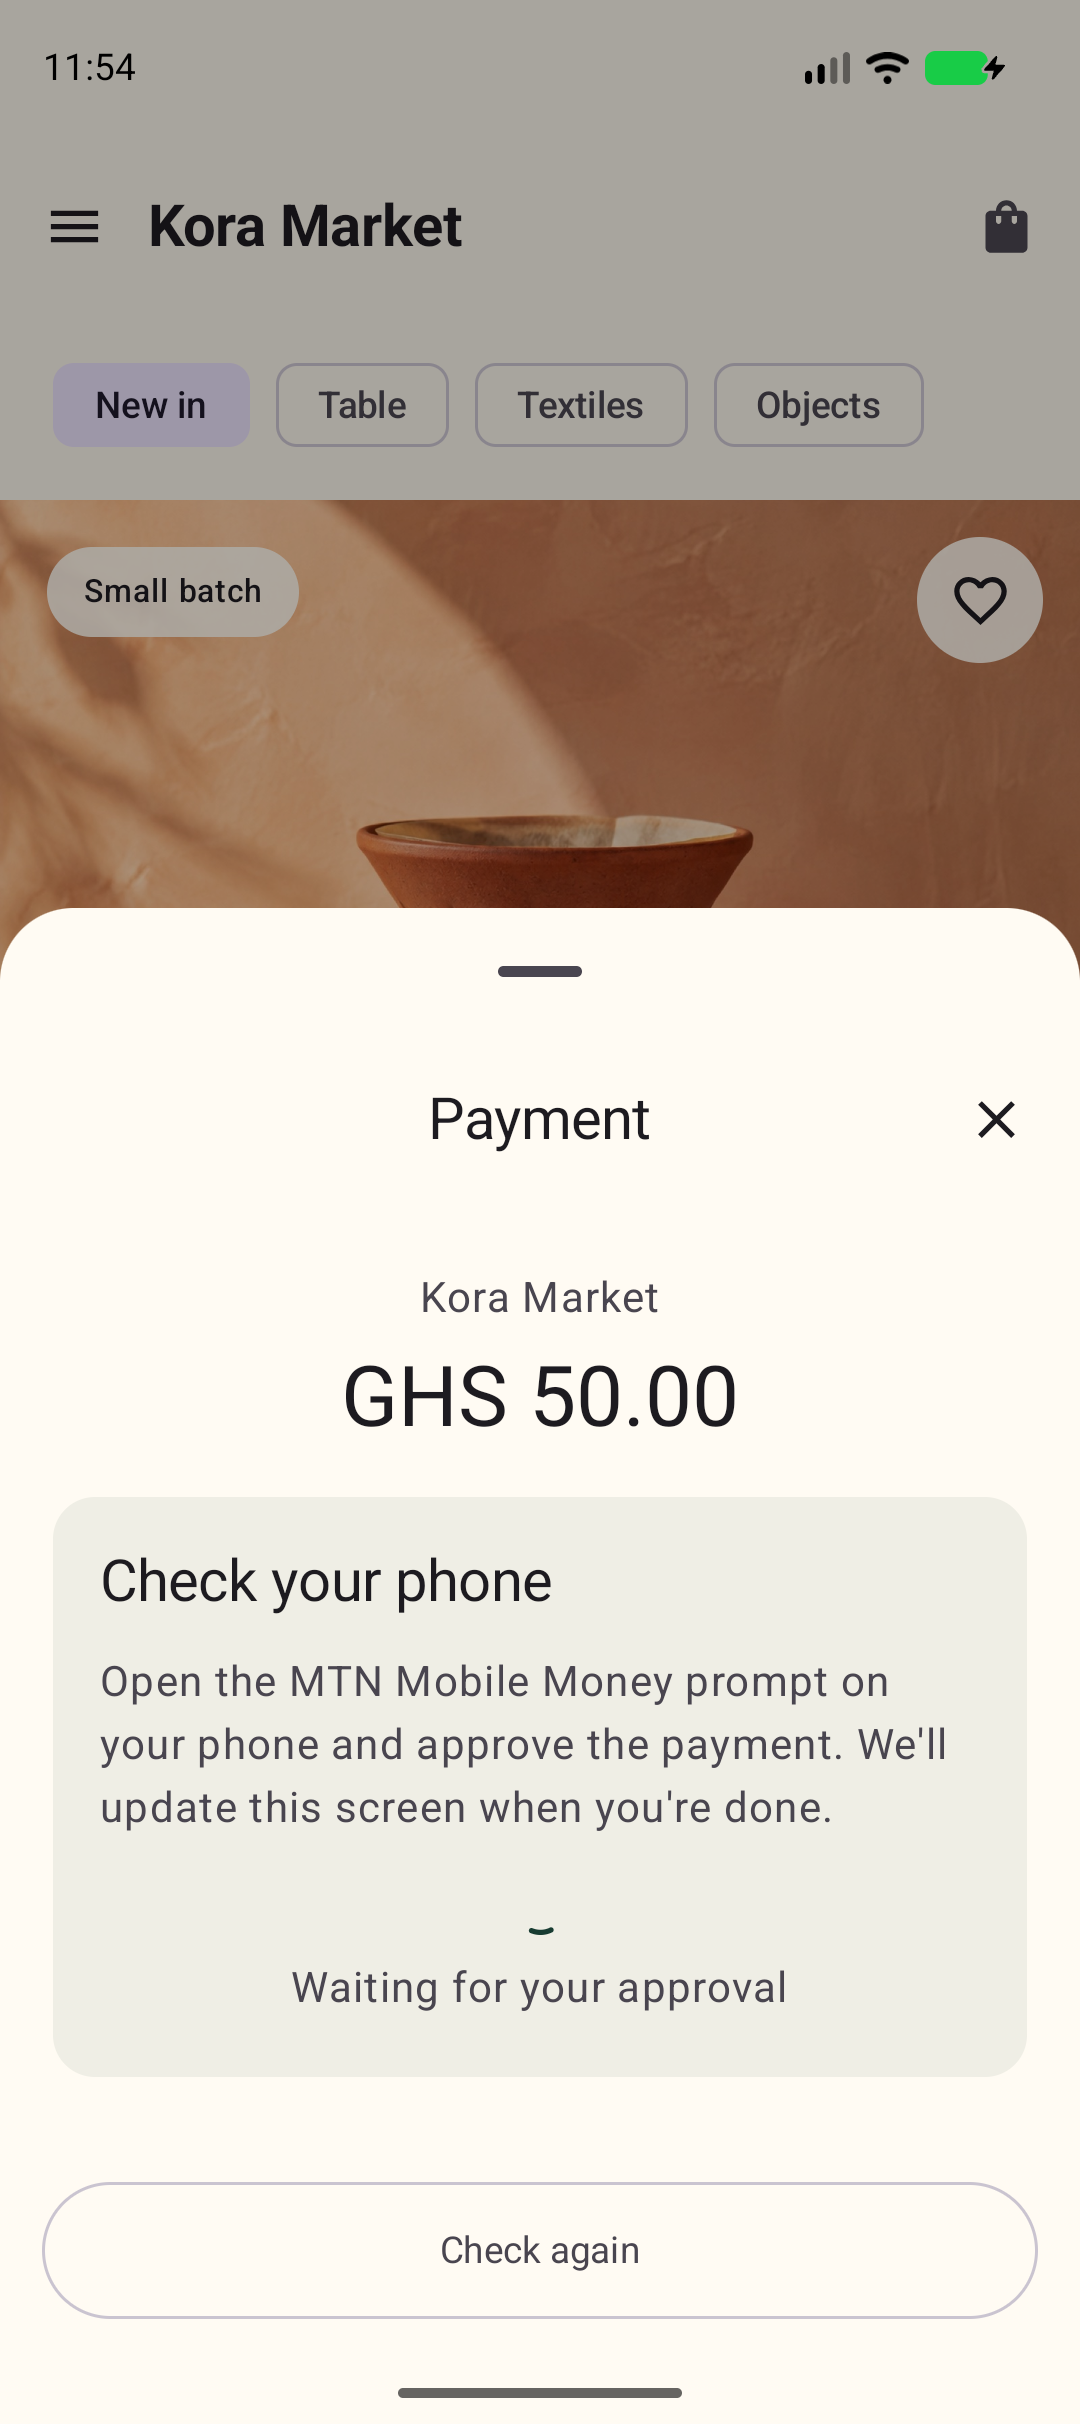
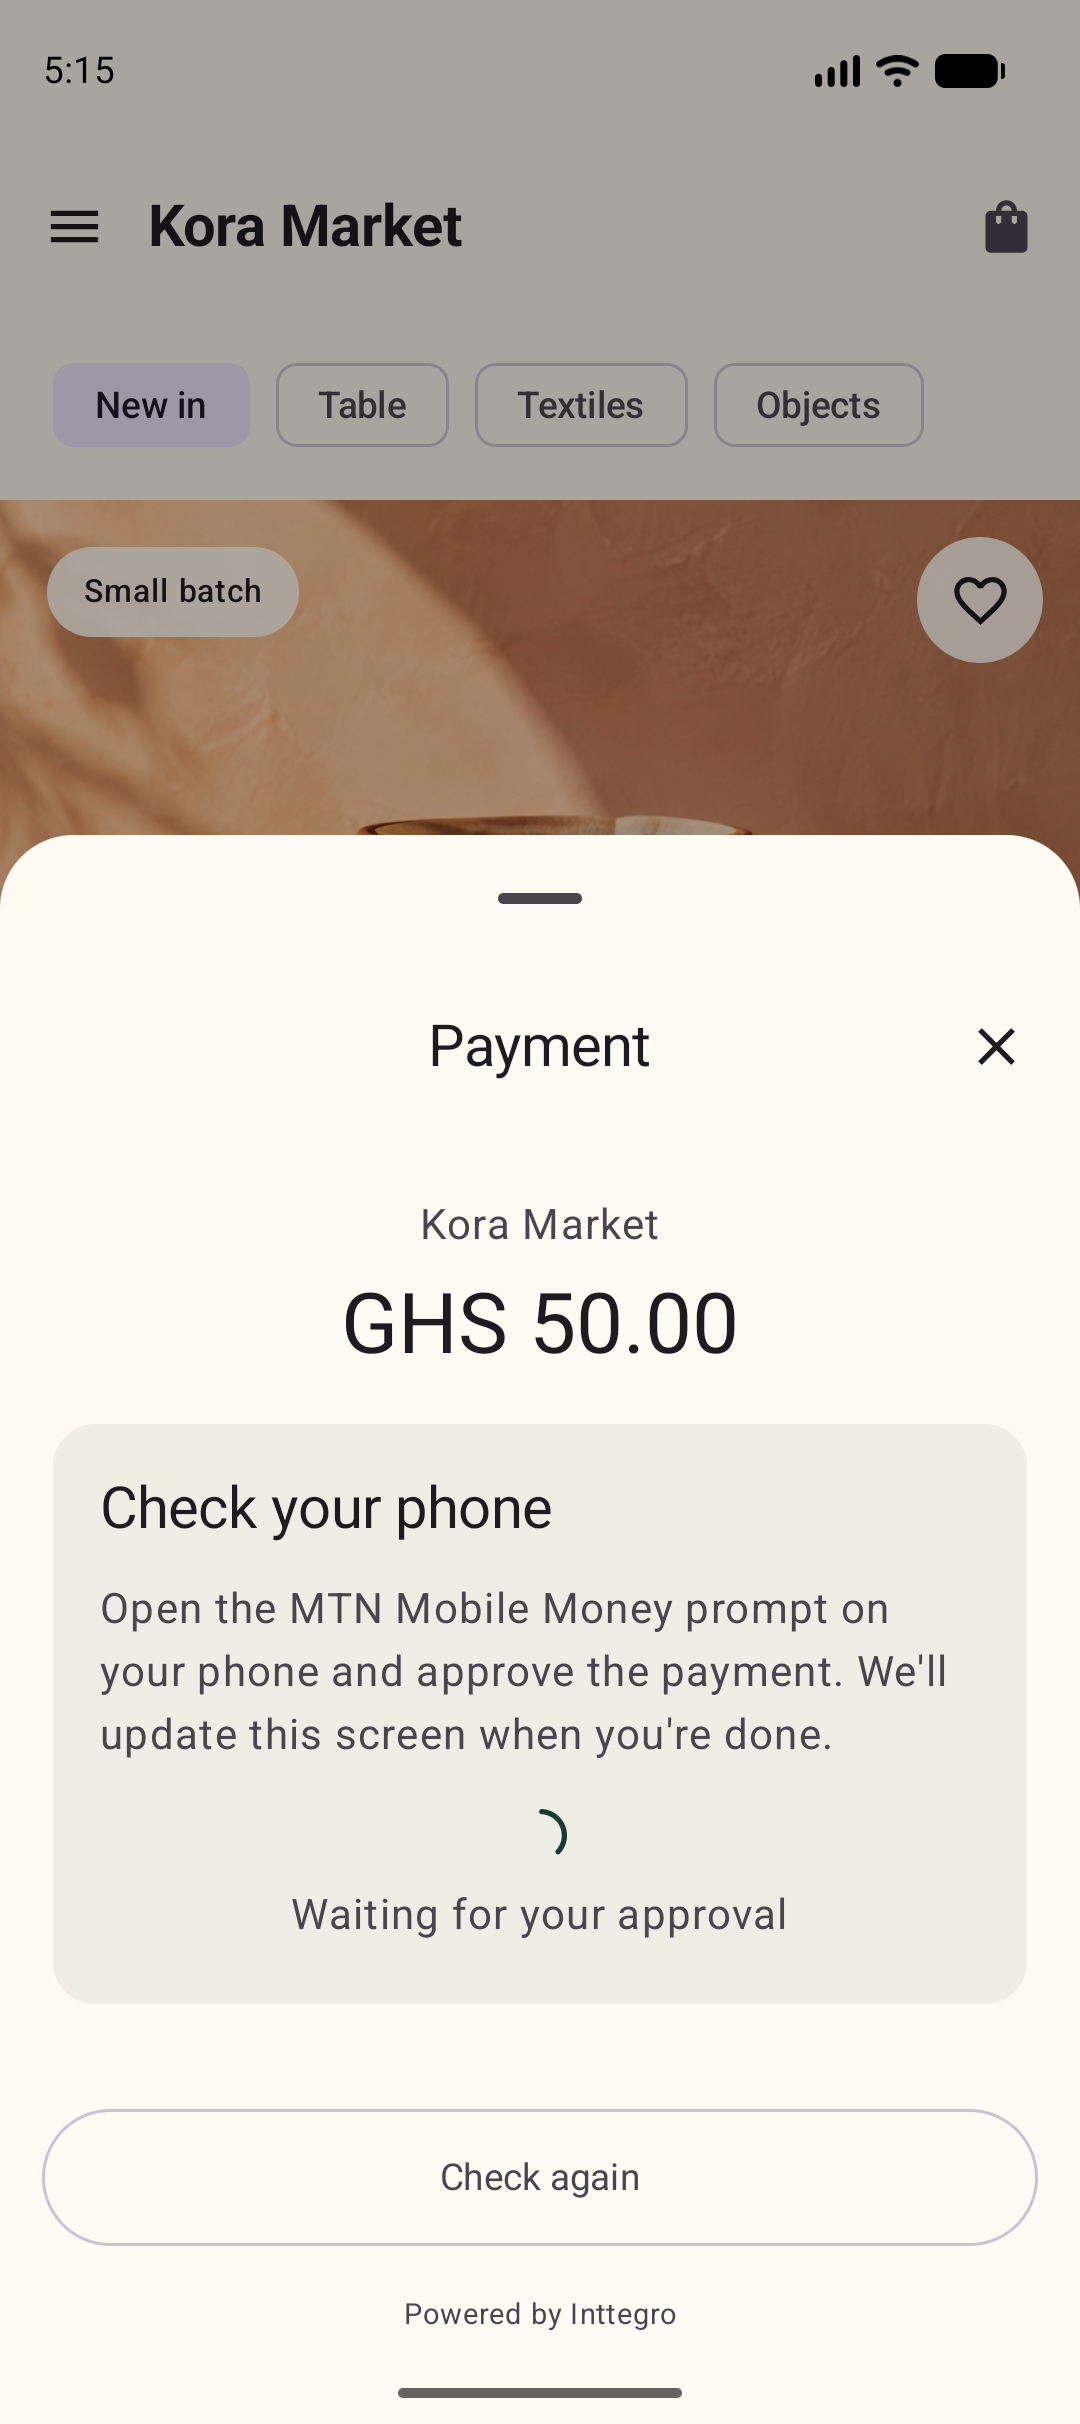
demos: capture optional mobile checkout states

diff --git a/ios-swiftui/InttegroSwiftUIDemo/CheckoutView.swift b/ios-swiftui/InttegroSwiftUIDemo/CheckoutView.swift
@@ -37,12 +37,19 @@ struct CheckoutView: View {
 
     init() {
 #if DEBUG
-        if ProcessInfo.processInfo.environment["INTTEGRO_STUDIO_SCREENSHOTS"] == "1" {
+        let screenshotMode = ProcessInfo.processInfo.environment["INTTEGRO_STUDIO_SCREENSHOTS"]
+        if screenshotMode == "1" || screenshotMode == "features" {
             _configuration = State(
                 initialValue: try? PaymentSheetConfiguration(
                     orderID: "or_studio_screenshot",
                     returnURL: URL(string: "inttegro-demo://inttegro-return"),
-                    appearance: .init(primaryColor: "#173D33", cornerRadius: 30)
+                    appearance: .init(primaryColor: "#173D33", cornerRadius: 30),
+                    features: .init(
+                        showLineItems: screenshotMode == "features",
+                        showInvoiceDownload: screenshotMode == "features",
+                        showReceiptDownload: screenshotMode == "features",
+                        allowPaymentMethodChange: screenshotMode != "features"
+                    )
                 )
             )
             _isPaymentSheetPresented = State(initialValue: true)
@@ -286,7 +293,8 @@ struct CheckoutView: View {
 
     private var isStudioScreenshotMode: Bool {
 #if DEBUG
-        ProcessInfo.processInfo.environment["INTTEGRO_STUDIO_SCREENSHOTS"] == "1"
+        let mode = ProcessInfo.processInfo.environment["INTTEGRO_STUDIO_SCREENSHOTS"]
+        return mode == "1" || mode == "features"
 #else
         false
 #endif
@@ -383,7 +391,19 @@ private struct StudioScreenshotPaymentSheetAdapter: PaymentSheetAdapter {
                     detail: "MTN MoMo, Telecel Cash, or AirtelTigo Money"
                 ),
             ],
-            expiresAt: Date().addingTimeInterval(15 * 60)
+            expiresAt: Date().addingTimeInterval(15 * 60),
+            lineItems: [
+                .init(
+                    id: "line_dawn_brew_set",
+                    name: "Dawn Brew Set",
+                    quantity: 1,
+                    total: .init(value: 5_000, currency: "GHS")
+                ),
+            ],
+            documents: .init(
+                invoiceURL: URL(string: "https://example.com/invoice.pdf"),
+                receiptURL: URL(string: "https://example.com/receipt.pdf")
+            )
         )
     }
 

diff --git a/android-compose/app/src/main/java/com/inttegro/demo/compose/MainActivity.kt b/android-compose/app/src/main/java/com/inttegro/demo/compose/MainActivity.kt
@@ -337,6 +337,12 @@ private fun KoraMarketScreen() {
                 // it is not evidence that payment succeeded.
                 orderId = activeOrderId,
                 returnUrl = "inttegro-demo://payment-return",
+                features = PaymentSheetConfiguration.Features(
+                    showLineItems = BuildConfig.INTTEGRO_SCREENSHOT_FEATURES,
+                    showInvoiceDownload = BuildConfig.INTTEGRO_SCREENSHOT_FEATURES,
+                    showReceiptDownload = BuildConfig.INTTEGRO_SCREENSHOT_FEATURES,
+                    allowPaymentMethodChange = !BuildConfig.INTTEGRO_SCREENSHOT_FEATURES,
+                ),
             ),
             telemetry = telemetry,
             adapter = if (BuildConfig.INTTEGRO_SCREENSHOT_MODE) {

diff --git a/android-compose/app/src/main/java/com/inttegro/demo/compose/DemoPaymentSheetAdapter.kt b/android-compose/app/src/main/java/com/inttegro/demo/compose/DemoPaymentSheetAdapter.kt
@@ -33,6 +33,18 @@ object DemoPaymentSheetAdapter : PaymentSheetAdapter {
             ),
         ),
         expiresAt = Instant.now().plusSeconds(60 * 60),
+        lineItems = listOf(
+            PaymentSheetSession.LineItem(
+                id = "line_dawn_brew_set",
+                name = "Dawn Brew Set",
+                quantity = 1,
+                total = PaymentSheetSession.Money(value = 5_000, currency = "GHS"),
+            ),
+        ),
+        documents = PaymentSheetSession.Documents(
+            invoiceUrl = "https://example.com/invoice.pdf",
+            receiptUrl = "https://example.com/receipt.pdf",
+        ),
     )
 
     override suspend fun pay(

diff --git a/ios-swiftui/README.md b/ios-swiftui/README.md
@@ -66,6 +66,13 @@ capture the one-time-code screen, enter any six digits and choose **Continue**
 to capture the approval screen, then choose **Check again** to capture
 `Payment complete`. No payment is created.
 
+Use `INTTEGRO_STUDIO_SCREENSHOTS=features` to capture the optional-feature
+story. The opening sheet offers a collapsed Order summary and keeps the attached
+payment method fixed. Opening the summary expands the sheet to the large detent
+as the Checkout-provided line items are revealed. Its completed state offers
+both invoice and receipt downloads. These links use inert documentation URLs
+and should not be opened during capture.
+
 ## Deploy the companion backend
 
 [![Deploy to Cloudflare](../assets/providers/cloudflare-button.svg)](https://deploy.workers.cloudflare.com/?url=https://github.com/zebodotdev/inttegro-demos/tree/deploy-nextjs-v1.6.2)

diff --git a/android-compose/README.md b/android-compose/README.md
@@ -62,6 +62,13 @@ Choose **Pay** to reach the one-time-code screen, enter any six digits and
 choose **Continue** to reach the approval screen, then choose **Check again** to
 reach the completed state.
 
+Add `-PinttegroScreenshotFeatures=true` to capture the optional-feature story.
+The opening sheet offers a collapsed Order summary and keeps the attached
+payment method fixed. Opening the summary expands the sheet as the
+Checkout-provided line items are revealed. Its completed state offers both
+invoice and receipt downloads. These actions use inert documentation URLs and
+should not be opened during capture.
+
 A production app receives only a finalized `orderId` created by its backend.
 Fulfillment still relies on authoritative server-side payment status.
 
